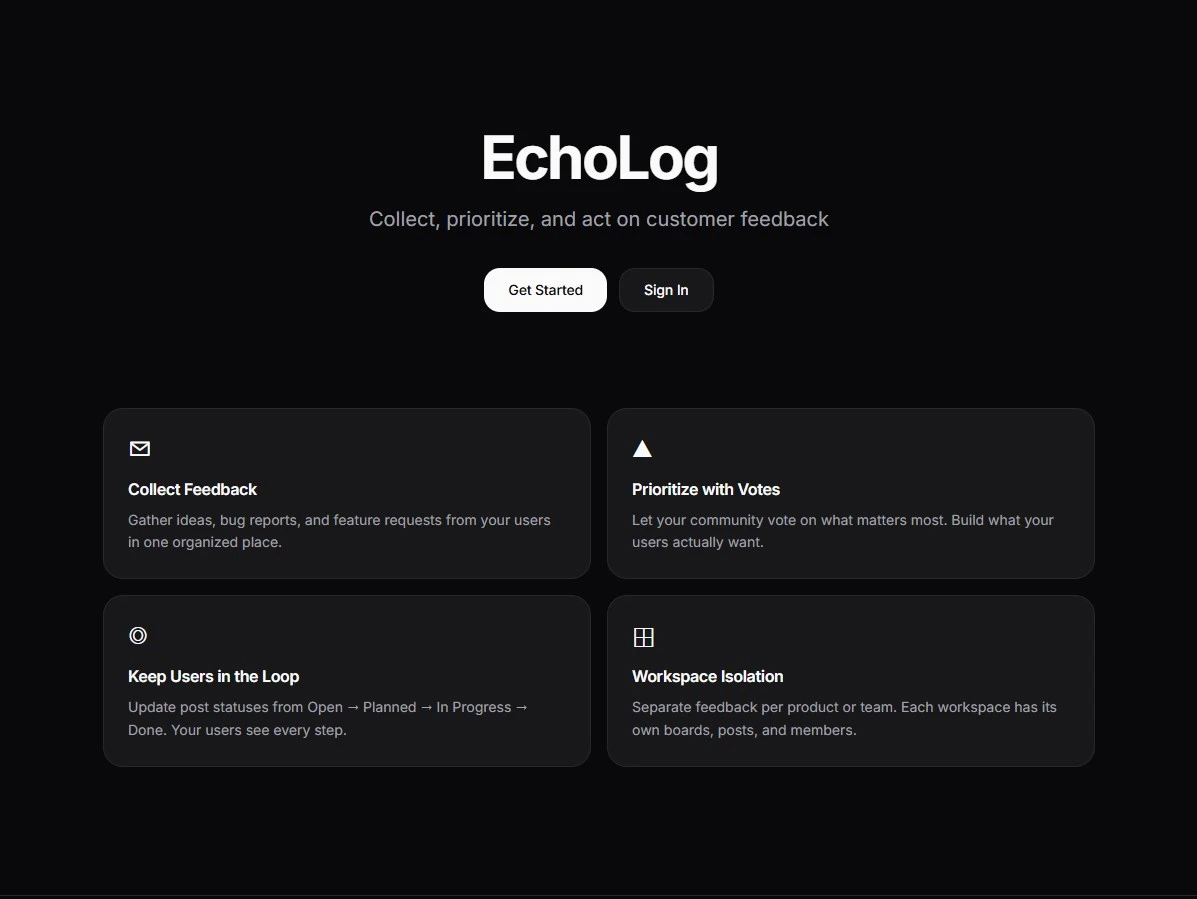
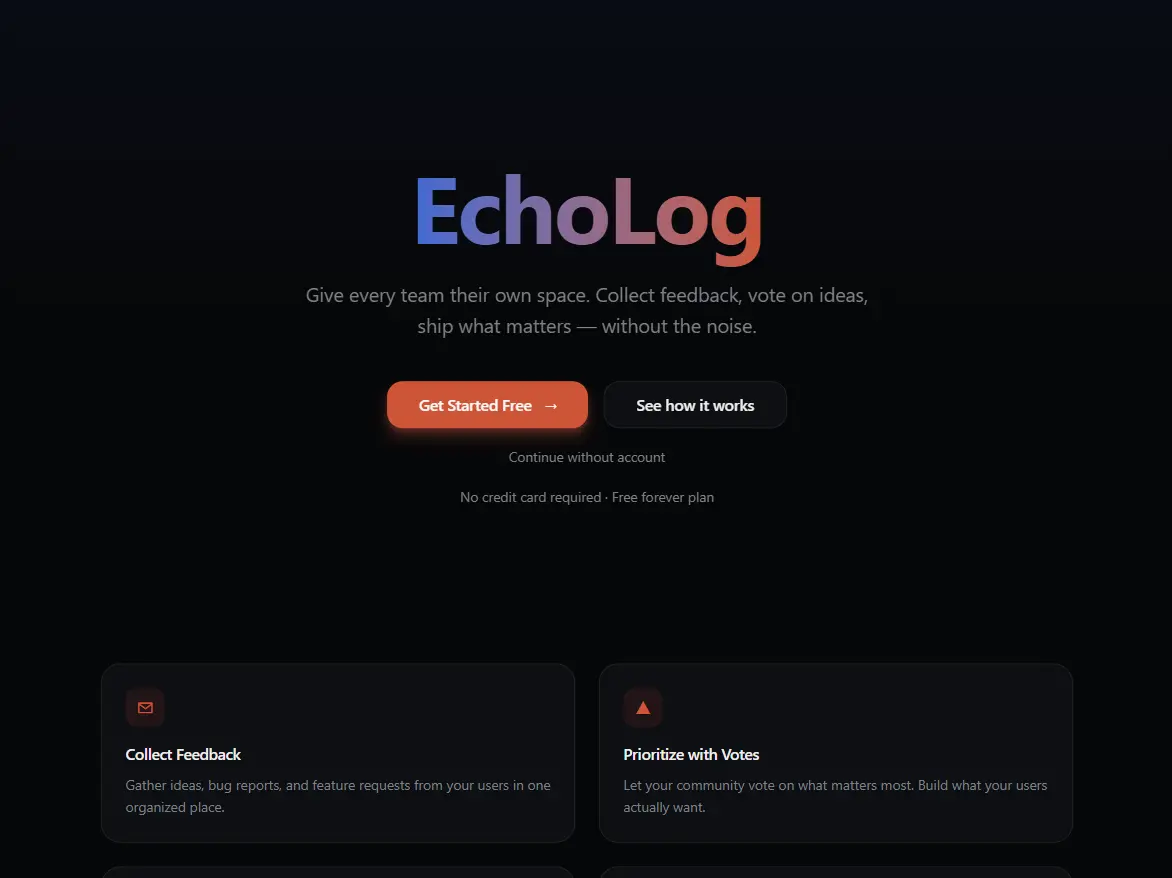
test: enhance useTheme and HomePage tests with additional scenarios

diff --git a/src/hooks/tests/useTheme.test.tsx b/src/hooks/tests/useTheme.test.tsx
@@ -138,6 +138,41 @@ describe('useTheme hook', () => {
     expect(screen.getByTestId('resolved').textContent).toBe('dark');
   });
 
+  it('maneja system theme sin addEventListener y no rompe', async () => {
+    localStorage.removeItem(STORAGE_KEY);
+
+    const mql = {
+      matches: false,
+      media: '(prefers-color-scheme: dark)',
+      onchange: null,
+      dispatchEvent: () => false,
+    } as unknown as MediaQueryList;
+
+    window.matchMedia = (() => mql) as (query: string) => MediaQueryList;
+
+    render(<TestComponent />);
+
+    await act(async () => {
+      await userEvent.click(screen.getByTestId('set-system'));
+    });
+
+    expect(screen.getByTestId('theme').textContent).toBe('system');
+  });
+
+  it('maneja cuando matchMedia no es una funcion con theme system', async () => {
+    localStorage.removeItem(STORAGE_KEY);
+
+    window.matchMedia = 'not a function' as unknown as typeof window.matchMedia;
+
+    render(<TestComponent />);
+
+    await act(async () => {
+      await userEvent.click(screen.getByTestId('set-system'));
+    });
+
+    expect(screen.getByTestId('theme').textContent).toBe('system');
+  });
+
   it('cae a system cuando localStorage falla al leer', () => {
     const getItemSpy = vi.spyOn(Storage.prototype, 'getItem').mockImplementation(() => {
       throw new Error('storage unavailable');
@@ -149,6 +184,55 @@ describe('useTheme hook', () => {
     expect(screen.getByTestId('resolved').textContent).toBe('dark');
 
     getItemSpy.mockRestore();
+  });
+
+  it('toggle de dark a light cuando la preferencia inicial es dark', async () => {
+    localStorage.setItem(STORAGE_KEY, 'dark');
+
+    render(<TestComponent />);
+
+    expect(screen.getByTestId('resolved').textContent).toBe('dark');
+    expect(document.documentElement.classList.contains('dark')).toBe(true);
+
+    await act(async () => {
+      await userEvent.click(screen.getByTestId('toggle'));
+    });
+
+    expect(screen.getByTestId('theme').textContent).toBe('light');
+    expect(screen.getByTestId('resolved').textContent).toBe('light');
+    expect(document.documentElement.classList.contains('dark')).toBe(false);
+    expect(localStorage.getItem(STORAGE_KEY)).toBe('light');
+  });
+
+  it('responde a cambios de preferencia del sistema cuando theme es system', async () => {
+    localStorage.removeItem(STORAGE_KEY);
+    const { mql, trigger } = createMockMatchMedia(false);
+    window.matchMedia = (() => mql) as (query: string) => MediaQueryList;
+
+    render(<TestComponent />);
+
+    expect(screen.getByTestId('theme').textContent).toBe('dark');
+
+    await act(async () => {
+      await userEvent.click(screen.getByTestId('set-system'));
+    });
+
+    expect(screen.getByTestId('theme').textContent).toBe('system');
+    expect(screen.getByTestId('resolved').textContent).toBe('light');
+
+    act(() => {
+      trigger(true);
+    });
+
+    expect(screen.getByTestId('resolved').textContent).toBe('dark');
+    expect(document.documentElement.classList.contains('dark')).toBe(true);
+
+    act(() => {
+      trigger(false);
+    });
+
+    expect(screen.getByTestId('resolved').textContent).toBe('light');
+    expect(document.documentElement.classList.contains('dark')).toBe(false);
   });
 
   it('sigue cambiando el tema aunque localStorage falle al escribir', async () => {

diff --git a/src/pages/tests/HomePage.test.tsx b/src/pages/tests/HomePage.test.tsx
@@ -1,4 +1,5 @@
-import { render, screen } from '@testing-library/react';
+import { act, render, screen } from '@testing-library/react';
+import userEvent from '@testing-library/user-event';
 import { MemoryRouter } from 'react-router-dom';
 
 vi.mock('../../shared/seo', () => ({
@@ -57,5 +58,83 @@ describe('HomePage', () => {
 
     expect(screen.getByRole('heading', { name: /interested in my profile|te interesa mi perfil/i })).toBeInTheDocument();
     expect(screen.getByRole('link', { name: /contactar|contact/i })).toBeInTheDocument();
+  });
+
+  it('renderiza el glow del cursor y responde a pointer events', async () => {
+    const { container } = render(
+      <MemoryRouter>
+        <HomePage />
+      </MemoryRouter>,
+    );
+
+    const heroSection = container.querySelector('section');
+    expect(heroSection).toBeInTheDocument();
+
+    const glow = container.querySelector('[aria-hidden="true"]');
+    expect(glow).toBeInTheDocument();
+
+    const user = userEvent.setup();
+    await user.pointer({ target: heroSection!, coords: { clientX: 200, clientY: 150 } });
+
+    expect(glow).toBeInTheDocument();
+  });
+
+  it('activa animaciones cuando el IntersectionObserver detecta interseccion', () => {
+    const observerCallbacks: Array<(entries: IntersectionObserverEntry[]) => void> = [];
+
+    window.IntersectionObserver = vi.fn(function (callback: (entries: IntersectionObserverEntry[]) => void) {
+      observerCallbacks.push(callback);
+      return {
+        observe: vi.fn(),
+        unobserve: vi.fn(),
+        disconnect: vi.fn(),
+        takeRecords: vi.fn(() => []),
+        root: null,
+        rootMargin: '',
+        thresholds: [],
+      };
+    }) as unknown as typeof IntersectionObserver;
+
+    render(
+      <MemoryRouter>
+        <HomePage />
+      </MemoryRouter>,
+    );
+
+    act(() => {
+      observerCallbacks.forEach((cb) => {
+        cb([{ isIntersecting: true } as IntersectionObserverEntry]);
+      });
+    });
+
+    const animatedElements = document.querySelectorAll('.animate-fade-in-up');
+    expect(animatedElements.length).toBeGreaterThanOrEqual(1);
+  });
+
+  it('no mueve el cursor glow cuando reducedMotion esta activo', async () => {
+    window.matchMedia = vi.fn().mockImplementation((query: string) => ({
+      matches: query === '(prefers-reduced-motion: reduce)',
+      media: query,
+      onchange: null,
+      addEventListener: vi.fn(),
+      removeEventListener: vi.fn(),
+      dispatchEvent: vi.fn(),
+    })) as unknown as typeof window.matchMedia;
+
+    const { container } = render(
+      <MemoryRouter>
+        <HomePage />
+      </MemoryRouter>,
+    );
+
+    const heroSection = container.querySelector('section');
+    expect(heroSection).toBeInTheDocument();
+
+    // Glow div should NOT render when reducedMotion is true
+    const glow = container.querySelector('.pointer-events-none.fixed.inset-0');
+    expect(glow).not.toBeInTheDocument();
+
+    const user = userEvent.setup();
+    await user.pointer({ target: heroSection!, coords: { clientX: 200, clientY: 150 } });
   });
 });